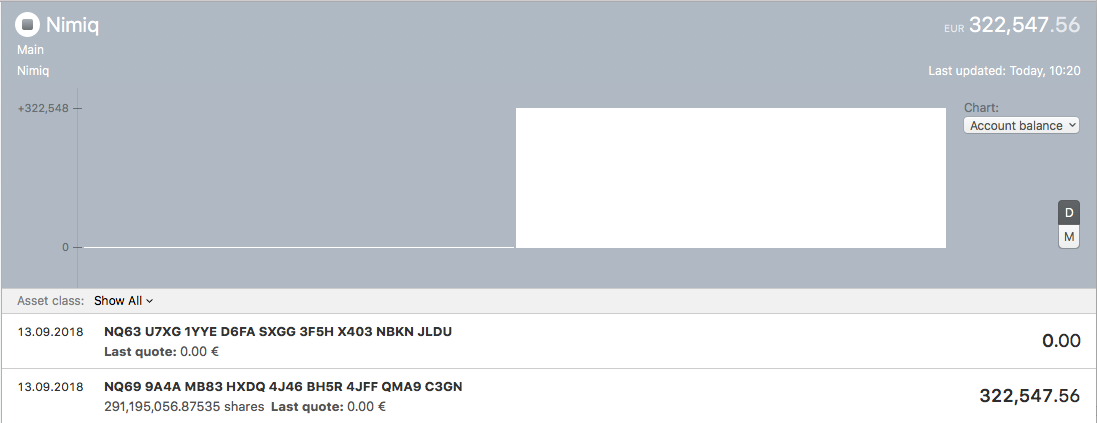
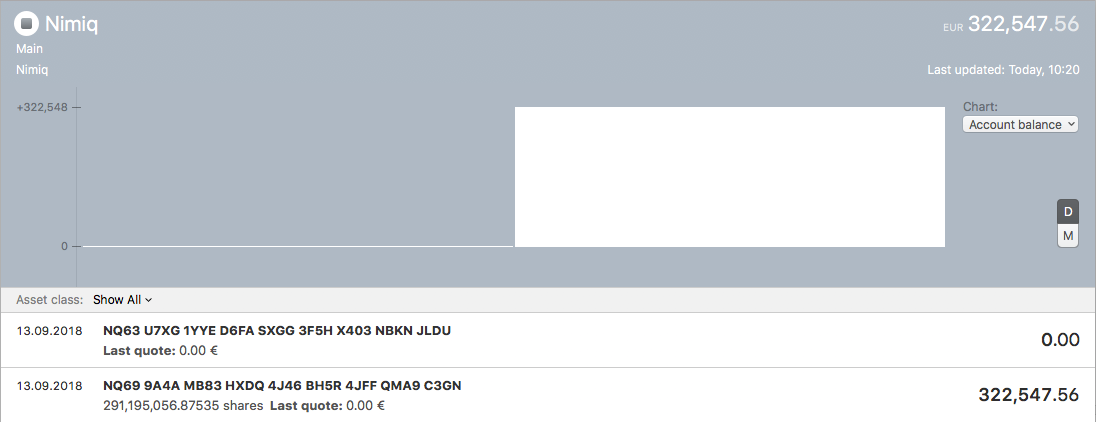
Add download URLs and beautify screenshots

diff --git a/README.md b/README.md
@@ -10,7 +10,8 @@ This can be also be used to track your cold storage.
 
 You can get a signed version of this extension from
 
-TODO
+* my [GitHub releases page](https://github.com/paberr/nimiq-moneymoney/releases/tag/v1.1), or
+* the [MoneyMoney Extensions](https://moneymoney-app.com/extensions/) page.
 
 Once downloaded, move `Nimiq.lua` to your MoneyMoney Extensions folder.
 To find the Extensions folder go to `Help` and `Show Database in Finder`.
